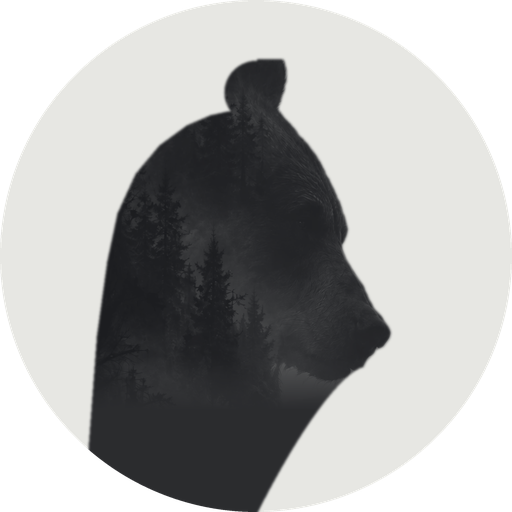
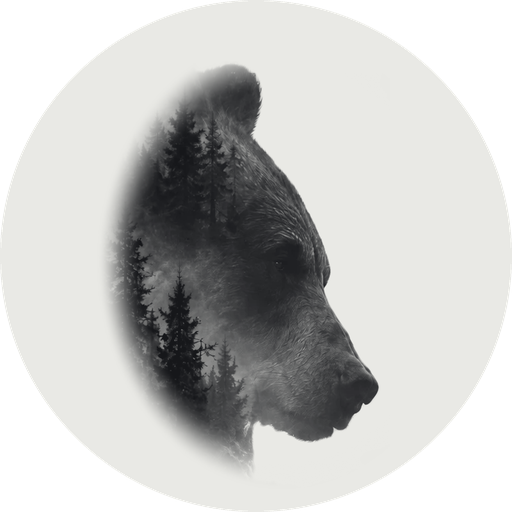
Сайт: значок — настоящая голова медведя с обложки в тумане вместо силуэта
Claude-Session: https://claude.ai/code/session_01Uu83MB45nkJX1tXJZPePva

Changed region(s): [[0.1562, 0.0938, 0.7812, 1.0]]

diff --git a/AGENTS.md b/AGENTS.md
@@ -37,7 +37,7 @@
   последний призыв; на телефоне кнопка «Читать» внизу появляется, когда главная ушла из виду.
   Пустые разделы не показываются. Цитаты, отрывки, отзывы — только настоящие (из книг/от читателей), не выдумывать.
   Первый экран главной — без обложек книг: слева заголовок и кнопка, справа **медведь в тумане над лесом — кадр с её обложки
-  «Звериная тропа для двоих»** (`site/hero-bear.jpg`, без лица героини и названия; значок вкладки — профиль медведя с той же обложки в светлом круге (`site/icon-32.png`, `icon-bear.png` 180, `icon-512.png`; рисованного кодом медведя она отвергла))
+  «Звериная тропа для двоих»** (`site/hero-bear.jpg`, без лица героини и названия; значок вкладки — настоящая голова медведя с той же обложки (глаз, нос, шерсть; затылок уходит в туман) в светлом круге; чёрный силуэт она отвергла (`site/icon-32.png`, `icon-bear.png` 180, `icon-512.png`; рисованного кодом медведя она отвергла))
   или другая картинка `photo`. Картинка 1300×1000: только голова медведя (ели ВНУТРИ силуэта — как на обложке, можно) из обложки
   в полном разрешении, мягко выходит из лёгкого тумана; дымка обложки переведена в белый (смешивание multiply с фоном).
   Текст и медведь — одна композиция строго по центру экрана (сетка 540px + 500px, медведь заходит под текст на 48px, текст сдвинут вправо до 48px — у медведя справа туман, так визуальный центр совпадает с центром экрана); картинка — в той же сетке, не absolute. У `.hero-in` нет z-index — иначе multiply не смешивается с фоном и виден белый прямоугольник.
